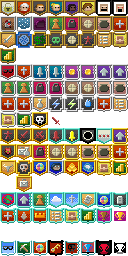
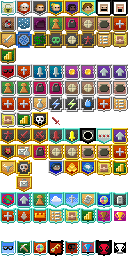
v1.401.5

Changed region(s): [[0.0, 0.0, 0.75, 0.0625], [0.25, 0.625, 0.375, 0.6875]]

diff --git a/core/src/main/java/com/shatteredpixel/shatteredpixeldungeon/Badges.java b/core/src/main/java/com/shatteredpixel/shatteredpixeldungeon/Badges.java
@@ -74,11 +74,11 @@ public class Badges {
 
 		//bronze
         UNLOCK_WARRIOR_A                ( 0 ),
-        UNLOCK_MAGE_A                 ( 1 ),
-        UNLOCK_ROGUE_A                ( 2 ),
-        UNLOCK_HUNTRESS_A             ( 3 ),
-        UNLOCK_DUELIST_A              ( 4 ),
-        UNLOCK_CLERIC_A               ( 5 ),
+        UNLOCK_MAGE_A                 ( 201 ),
+        UNLOCK_ROGUE_A                ( 202 ),
+        UNLOCK_HUNTRESS_A             ( 203 ),
+        UNLOCK_DUELIST_A              ( 204 ),
+        UNLOCK_CLERIC_A               ( 205 ),
 
 		UNLOCK_MAGE                 ( 1 ),
 		UNLOCK_ROGUE                ( 2 ),
@@ -264,7 +264,7 @@ public class Badges {
         SUCCESSFUL_HEIST    ( 284 ), // must get thieves guild first
         END_OF_ICE_CAVES    ( 285), // must get ice caves tourist first
 
-        YENDORS_KEY         (323, BadgeType.SECRET), // unob as of now. ALOT will need to be done for this one
+        YENDORS_KEY         (323, BadgeType.SECRET), // unob as of now.
 
 
         // impossible badge, used for some debug testing
@@ -1251,6 +1251,12 @@ public class Badges {
             displayBadge( badge );
         }
 
+        if (Dungeon.hero.heroClass == HeroClass.PEASANT){
+            badge = Badge.AGAINST_ALL_ODDS;
+            local.add( badge );
+            displayBadge( badge );
+        }
+
 
         badge = victoryClassBadges.get(Dungeon.hero.heroClass);
         if (badge == null) return;
@@ -1306,13 +1312,6 @@ public class Badges {
 	
 	public static void validateGamesPlayed() {
 		Badge badge = null;
-        if (Rankings.INSTANCE.totalNumber >= 5) {
-            badge = Badge.UNLOCK_WARRIOR_A;
-            validateAllHeroClassesUnlocked();
-        }
-        unlock(badge);
-        validateAllHeroClassesUnlocked();  // now it's safe to check
-
 		if (Rankings.INSTANCE.totalNumber >= 10 || Rankings.INSTANCE.wonNumber >= 1) {
 			badge = Badge.GAMES_PLAYED_1;
 		}
@@ -1332,6 +1331,15 @@ public class Badges {
 			unlock(badge);
 			badge = Badge.GAMES_PLAYED_5;
 		}
+        if (Rankings.INSTANCE.totalNumber >= 5 && !Badges.isUnlocked(Badge.UNLOCK_WARRIOR_A)) {
+            if (badge != null) { // safety
+                unlock(badge);
+            }
+
+            badge = Badge.UNLOCK_WARRIOR_A;
+            unlock(badge); // might not be needed, but do it anyway
+            validateAllHeroClassesUnlocked();
+        }
 		
 		displayBadge( badge );
 	}
@@ -1402,11 +1410,6 @@ public class Badges {
 
 	public static void validateChampion( int challenges, int sins ) {
         Badge badge = null;
-
-        if (Dungeon.hero.heroClass == HeroClass.PEASANT && challenges >= 3){
-            badge = Badge.AGAINST_ALL_ODDS;
-            unlock(badge);
-        }
 
 		if (challenges == 0) return;
 
@@ -1572,7 +1575,7 @@ public class Badges {
             // technically contains spoilers, but that's alright
             // cooouullddd make the badges hidden until rewarded, since you're super likely to get them, but nah
             {Badge.KILL_TITLE_ENEMY, Badge.ICE_CAVE_TOURIST, Badge.THIEF_DEJA_VU},
-            {Badge.BOSS_SLAIN_2, Badge.THE_THIEVES_GUILD, Badge.SUCCESSFUL_HEIST},
+            {Badge.THE_THIEVES_GUILD, Badge.SUCCESSFUL_HEIST},
             {Badge.ICE_CAVE_TOURIST, Badge.END_OF_ICE_CAVES},
 
             // Legacy vs new hero class unlocks:
@@ -1595,15 +1598,20 @@ public class Badges {
 			{Badge.VICTORY,      Badge.BOSS_CHALLENGE_5},
 			{Badge.HAPPY_END,    Badge.PACIFIST_ASCENT},
 			{Badge.VICTORY,      Badge.TAKING_THE_MICK},
-            {Badge.VICTORY,      Badge.VICTORY_RANDOM}, // Added this myself since Evan didn't, could have been a wrong merge? idk
 
+            {Badge.VICTORY,      Badge.VICTORY_RANDOM}, // Added this myself since Evan didn't, could have been a wrong merge? idk
+            {Badge.VICTORY,      Badge.VICTORY_ALL_CLASSES},
 
             // evan might not be strict, i sure as hell am
-            {Badge.BOSS_CHALLENGE_3, Badge.NO_UPGRADE_BOSS3},
+            {Badge.VICTORY, Badge.NO_UPGRADE_BOSS3},
             {Badge.VICTORY, Badge.TO_HELL_AND_BACK},
             {Badge.VICTORY, Badge.HAPPY_END},
             {Badge.HAPPY_END, Badge.HAPPY_END_REMAINS},
-            {Badge.VICTORY, Badge.AGAINST_ALL_ODDS}
+            {Badge.VICTORY, Badge.AGAINST_ALL_ODDS},
+
+            {Badge.BOSS_SLAIN_2, Badge.THE_THIEVES_GUILD, Badge.SUCCESSFUL_HEIST},
+            //{Badge.THE_THIEVES_GUILD, Badge.SUCCESSFUL_HEIST},
+            {Badge.ICE_CAVE_TOURIST, Badge.END_OF_ICE_CAVES},
 	};
 
 	//If the summary badge is unlocked, don't show the component badges

diff --git a/core/src/main/java/com/shatteredpixel/shatteredpixeldungeon/effects/BadgeBanner.java b/core/src/main/java/com/shatteredpixel/shatteredpixeldungeon/effects/BadgeBanner.java
@@ -80,9 +80,11 @@ public class BadgeBanner extends Image {
         this.index = index;
 
         if (index < EXTRA_OFFSET) {
+            texture(Assets.Interfaces.BADGES);
             frame(atlas.get(index));
         } else {
             int localIndex = index - EXTRA_OFFSET;
+            texture(Assets.Interfaces.BADGES_EXTRA);
             frame(atlasExtra.get(localIndex));
         }
 
@@ -93,7 +95,6 @@ public class BadgeBanner extends Image {
         time = FADE_IN_TIME;
         Sample.INSTANCE.play(Assets.Sounds.BADGE);
     }
-	
 	@Override
 	public void update() {
 		super.update();
@@ -157,57 +158,63 @@ public class BadgeBanner extends Image {
 	}
 
 	//adds a shine to an appropriate pixel on a badge
-	public static void highlight( Image image, int index ) {
-		
-		PointF p = new PointF();
+    public static void highlight( Image image, int index ) {
 
-		if (highlightPositions.containsKey(index)){
-			p.x = highlightPositions.get(index).x * image.scale.x;
-			p.y = highlightPositions.get(index).y * image.scale.y;
-		} else {
+        PointF p = new PointF();
 
-			SmartTexture tx = TextureCache.get(Assets.Interfaces.BADGES);
+        if (highlightPositions.containsKey(index)){
+            p.x = highlightPositions.get(index).x * image.scale.x;
+            p.y = highlightPositions.get(index).y * image.scale.y;
+        } else {
 
-			int size = 16;
+            SmartTexture tx;
+            int localIndex = index;
+            if (index < EXTRA_OFFSET) {
+                tx = TextureCache.get(Assets.Interfaces.BADGES);
+            } else {
+                tx = TextureCache.get(Assets.Interfaces.BADGES_EXTRA);
+                localIndex = index - EXTRA_OFFSET;
+            }
 
-			int cols = tx.width / size;
-			int row = index / cols;
-			int col = index % cols;
+            int size = 16;
+            int cols = tx.width / size;
+            int row = localIndex / cols;
+            int col = localIndex % cols;
 
-			int x = 3;
-			int y = 4;
-			int bgColor = tx.getPixel(col * size + x, row * size + y);
-			int curColor = 0;
+            int x = 3;
+            int y = 4;
+            int bgColor = tx.getPixel(col * size + x, row * size + y);
+            int curColor = 0;
 
-			for (x = 3; x <= 12; x++) {
-				curColor = tx.getPixel(col * size + x, row * size + y);
-				if (curColor != bgColor) break;
-			}
+            for (x = 3; x <= 12; x++) {
+                curColor = tx.getPixel(col * size + x, row * size + y);
+                if (curColor != bgColor) break;
+            }
 
-			if (curColor == bgColor) {
-				y++;
-				for (x = 3; x <= 12; x++) {
-					curColor = tx.getPixel(col * size + x, row * size + y);
-					if (curColor != bgColor) break;
-				}
-			}
+            if (curColor == bgColor) {
+                y++;
+                for (x = 3; x <= 12; x++) {
+                    curColor = tx.getPixel(col * size + x, row * size + y);
+                    if (curColor != bgColor) break;
+                }
+            }
 
-			p.x = x * image.scale.x;
-			p.y = y * image.scale.y;
+            p.x = x * image.scale.x;
+            p.y = y * image.scale.y;
 
-			highlightPositions.put(index, new Point(x, y));
-		}
+            highlightPositions.put(index, new Point(x, y)); // keep full index as cache key, that part's fine
+        }
 
-		p.offset(
-			-image.origin.x * (image.scale.x - 1),
-			-image.origin.y * (image.scale.y - 1) );
-		p.offset( image.point() );
-		
-		Speck star = new Speck();
-		star.reset( 0, p.x, p.y, Speck.DISCOVER );
-		star.camera = image.camera();
-		image.parent.add( star );
-	}
+        p.offset(
+                -image.origin.x * (image.scale.x - 1),
+                -image.origin.y * (image.scale.y - 1) );
+        p.offset( image.point() );
+
+        Speck star = new Speck();
+        star.reset( 0, p.x, p.y, Speck.DISCOVER );
+        star.camera = image.camera();
+        image.parent.add( star );
+    }
 	
 	public static BadgeBanner show( int image ) {
 		BadgeBanner banner = new BadgeBanner(image);

diff --git a/core/src/main/java/com/shatteredpixel/shatteredpixeldungeon/ui/changelist/Mod_Changes.java b/core/src/main/java/com/shatteredpixel/shatteredpixeldungeon/ui/changelist/Mod_Changes.java
@@ -62,6 +62,16 @@ public class Mod_Changes {
         changes.hardlight(Window.TITLE_COLOR);
         changeInfos.add(changes);
 
+        changes.addButton(new ChangeButton(Icons.get(Icons.BADGES), "v1.401.5: crashing hotfix",
+                "_Changes:_\n" +
+                        "_1._ fixed a very common crash case where the game would crash directly after a game over\n" +
+                        "_2._ fixed badge 'against all odds', no longer requiring enabled challenges to be achieved (oops)\n" +
+                        "_3._ fixed badges displayed when achieved for the first time displaying the wrong sprite (was only a visual bug)\n" +
+                        "_4._ badge 'unlocked warrior' no longer gets achieved every game over after already having unlocked it\n" +
+                        "_5._ fixed badges added in 1.401.0 showing up too early\n" +
+                        "_6._ updated the hero unlock badges to better reflect their rarity\n"
+        ));
+
         changes.addButton(new ChangeButton(new Image(new SnatcherSprite()), "v1.401.0: fixes, small new content, and more fixes",
                 "_Changes:_\n" +
                         "_1._ Returned all languages, as requested by someone\n" +

diff --git a/core/src/main/java/com/shatteredpixel/shatteredpixeldungeon/scenes/WelcomeScene.java b/core/src/main/java/com/shatteredpixel/shatteredpixeldungeon/scenes/WelcomeScene.java
@@ -206,7 +206,8 @@ public class WelcomeScene extends PixelScene {
 				message += "\n";
 				//message += "\n" + Messages.get(this, "patch_balance");
 				message += "\n" + Messages.get(this, "patch_bugfixes");
-				message += "\n" + Messages.get(this, "patch_translations");
+                message += "\n" + Messages.get(this, "patch_tweaks");
+				//message += "\n" + Messages.get(this, "patch_translations");
 
 			}
 		} else {
